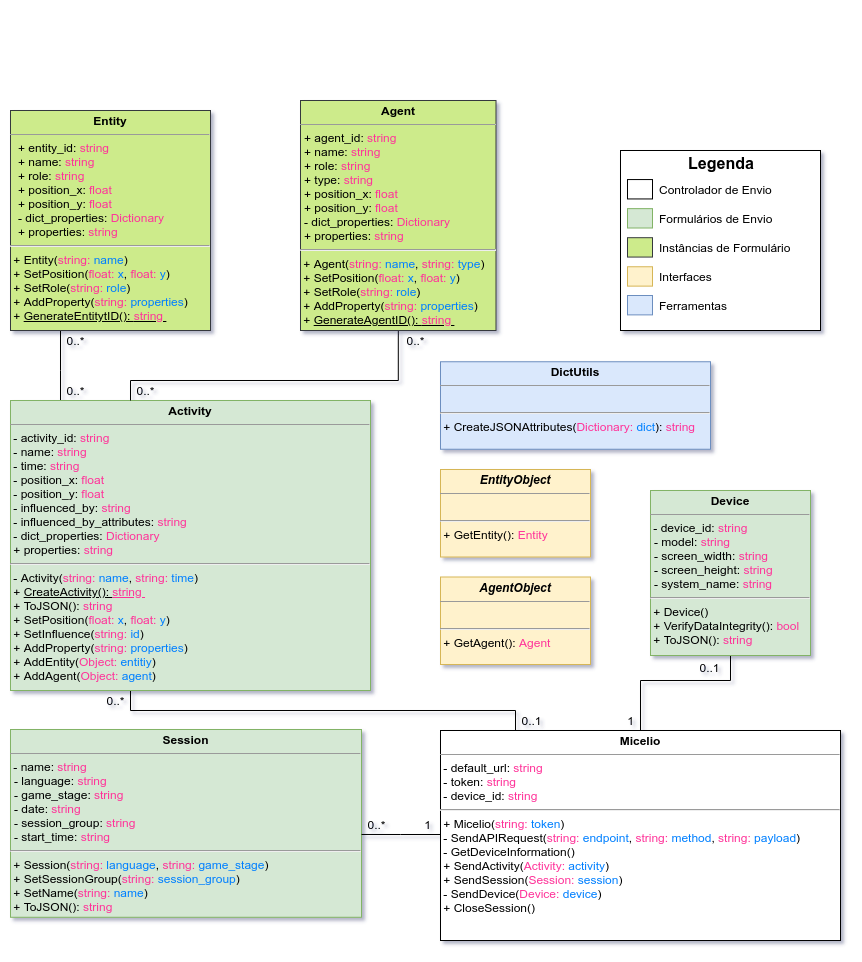
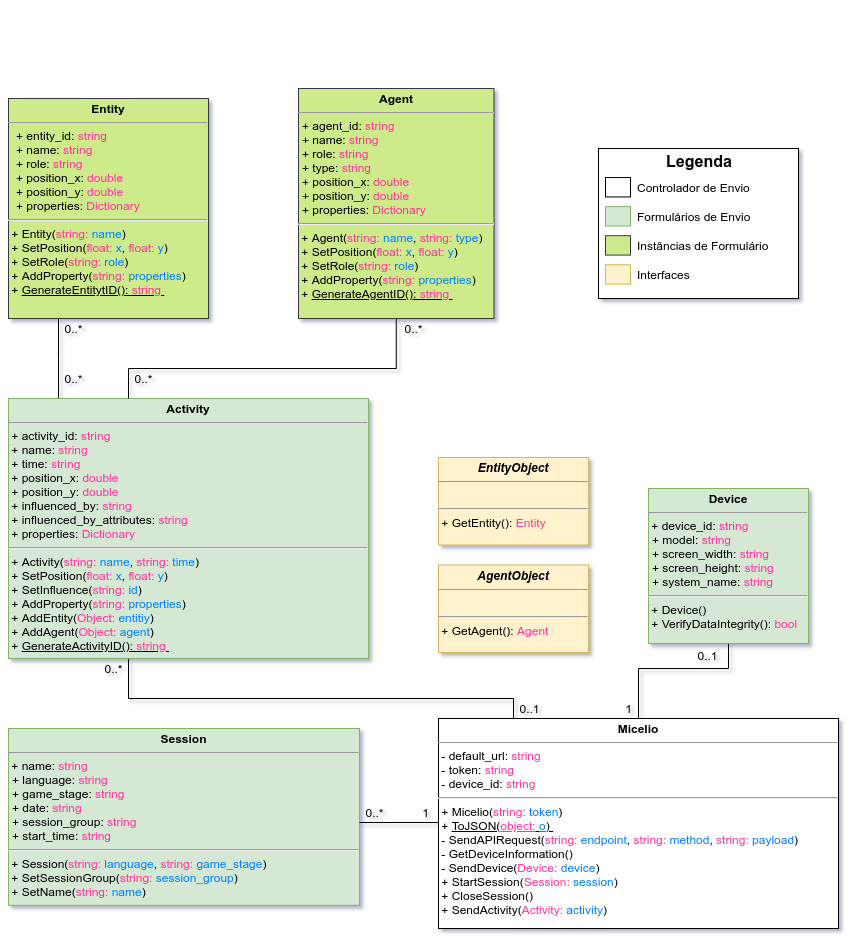
Documentation

Changed region(s): [[0.0, 0.396, 0.9954, 1.0], [0.3318, 0.0914, 0.9652, 0.7006], [0.0, 0.0914, 0.2715, 0.3655]]

diff --git a/MicelioUnity/Assets/Provenance/Micelio.cs b/MicelioUnity/Assets/Provenance/Micelio.cs
@@ -29,7 +29,7 @@ public class Micelio
 
     }
 
-    public static string toJSON(object o)
+    public static string ToJSON(object o)
     {
         string json = LitJson.JsonMapper.ToJson(o);
         Debug.Log(json);
@@ -81,14 +81,14 @@ public class Micelio
     //envia as informações de device para o banco
     private void SendDevice(Device device)
     {
-        string payload = toJSON(device);
+        string payload = ToJSON(device);
         SendAPIRequest("/device", "POST", payload);
     }
 
     // envia as informações de seção para o banco
     public void StartSession(Session session)
     {
-        string payload = toJSON(session);
+        string payload = ToJSON(session);
         SendAPIRequest("/session", "POST", payload);
     }
 

diff --git a/README.md b/README.md
@@ -1,8 +1,10 @@
 # Micélio - Plataforma de Proveniencia para Avaliação do Aprendizado em Jogos Educacionais 
 
-O Micélio é uma plataforma de proveniência criada com o objetivo de armazenar dados de log de qualquer jogo, e a partir deles gerar grafos de proveniência. O principal objetivo da plataforma é, através dos grafos de proveniência gerados, conseguir avaliar o aprendizado em jogos educacionais. Por ter como objetivo abranger qualquer tipos de jogo, tornou-se necessário criar um modelo de dados geral que pudesse armazenar as informações de qualquer um deles.
+O Micélio é uma plataforma de proveniência criada com o objetivo de recolher e armazenar dados de log de qualquer jogo, e a partir deles gerar visualizações dos dados de proveniência. O principal objetivo da plataforma é, através dos dados de proveniência, conseguir avaliar o aprendizado em jogos educacionais.
 
-O modelo de dados foi criado baseando-se no modelo de proveniência PROV. O PROV utliza 3 termos para definir os vértices de um grafo de proveniência, são eles: <u>entidade</u>, <u>atividade</u> e <u>agente</u>.
+Por ter como objetivo abranger qualquer tipos de jogo, tornou-se necessário criar um modelo de dados geral que pudesse armazenar informações de forma genérica.
+
+O modelo de dados foi criado baseando-se no modelo de proveniência PROV. O PROV analisa os dados de proveniência através de um grafo, esse grafo utliza 3 termos para definir seus vértices, são eles: <u>entidade</u>, <u>atividade</u> e <u>agente</u>.
 
 - **Entidades**
 
@@ -30,11 +32,15 @@ A plataforma do Micélio conta com alguns módulos, são eles:
 
   [Saiba mais](https://github.com/GPMM/micelio/tree/main/UnityAPI).
 
+- MicélioDashboard:
+
+  [Saiba mais](https://github.com/GPMM/micelio/tree/main/MicelioDashboard).
+
   
 
 ## Modelo de Dados
 
-O modelo de dados do Micélio foi pensado para que pudesse armazenar dados qualquer jogo. Além disso, as principais entidades foram basedas no modelo PROV, com o objetivo de conseguirmos montar grafos de proveniência para os dados armazenados. A **Imagem 1** representa o diagrama de classes do modelo de dados utilizado pelo Micélio.
+O modelo de dados do Micélio foi pensado para que pudesse armazenar dados qualquer jogo. Além disso, as principais entidades foram basedas no modelo PROV, com o objetivo de conseguirmos montar grafos de proveniência e outras formas de visualização para os dados armazenados. A **Imagem 1** representa o diagrama de classes do modelo de dados utilizado pelo Micélio.
 
 
 
@@ -42,7 +48,7 @@ O modelo de dados do Micélio foi pensado para que pudesse armazenar dados qualq
 
 <center><b>Imagem 1</b> - Diagrama de Classes utilizado pelo Micélio para armazenamento dos dados.</center>
 
-O modelo de dados foi definido com 3 tipos de entidades, Objetos do Jogo, Objetos de Proveniênica e Objetos do sistema. Objetos do Jogo são objetos derivados de Objetos de proveniênicia, ou informações associativas. Essas informações não são de extrema importância para montar os grafos, são informações opcionais que ajudam a detalhar mais as informações de cada objeto. Os Objetos de Proveniência são os objetos que guardam as informações essenciais para montarmos os grafos de proveniência seguindo o modelo base (PROV). Já os Objetos do Sistema são objetos que nos ajuda a diferencias as informações enviadas, com eles podemos saber de que jogo, em qual dispotiviso e em qual sessão a informação foi gerada, e além disso, se o usuário ainda está logado naquela sessão.
+O modelo de dados foi definido com 3 tipos de entidades, Objetos do Jogo, Objetos de Proveniênica e Objetos do sistema. Objetos do Jogo são objetos derivados de Objetos de proveniênicia, ou informações associativas. Essas informações não são de extrema importância para montar os grafos, são informações opcionais que ajudam a detalhar mais as informações de cada objeto. Os Objetos de Proveniência são os objetos que guardam as informações essenciais para montarmos os grafos de proveniência seguindo o modelo base (PROV). Já os Objetos do Sistema são objetos que nos ajudam a diferenciar as informações enviadas, com eles podemos saber de que jogo, em qual dispotiviso e em qual sessão a informação foi gerada, e além disso, se o usuário ainda está logado naquela sessão.
 
 O Micélio foi projetado com o objetivo de ser uma via de mão única com os jogos, ou seja, a API Web recebe as informações mas não devolve nenhum dado. Isso foi pensado para que o jogo não dependa de uma resposta da API para seguir na sua história, tornando ele completamente independente da API Web. A **Imagem 2** mostra como é feita a comunicação entre cada parte que interage com o sistema.
 
@@ -56,7 +62,7 @@ O Micélio foi projetado com o objetivo de ser uma via de mão única com os jog
 
 Uma vez que um jogo é cadastrado ele recebe uma chave de acesso a API (token). Essa chave irá permitir que os jogos mandem requisições para o Micélio, e que ele possa identificar a qual jogo aquela requisição pertence. O token gerado é um JWT com informações referentes aos jogos.
 
-Uma vez que um jogo é instalado em um dispositivo e é iniciado ele precisa enviar uma requisição de cadastro do dispositivo, nessa requisição é muito importante passar um identificador único do dispositivo, como o enderaço MAC. Essa informação nos permite identificar, para qualquer requisição de cadastro de atividade, a qual sessão ela está relacionada. Como cada dispositivo só possui uma sessão simultânea em cada jogo, basta pegarmos a última sessão aberta por aquele dispositivo naquele jogo.
+Uma vez que um jogo é instalado em um dispositivo, e é iniciado, ele precisa enviar uma requisição de cadastro do dispositivo, nessa requisição é muito importante passar um identificador único do dispositivo, como o enderaço MAC ou qualquer identificador disponibilizado pelo sistema. Essa informação nos permite identificar, para qualquer requisição de cadastro de atividade, a qual sessão ela está relacionada. Como cada dispositivo só possui uma sessão simultânea em cada jogo, basta pegarmos a última sessão aberta por aquele dispositivo naquele jogo.
 
 
 

diff --git a/MicelioUnity/README.md b/MicelioUnity/README.md
@@ -84,7 +84,7 @@ public class Arma : MonoBehaviour, EntityObject
 {
     private string id_entity = Entity.GenerateEntityID();
     public string nome = "Arma";
-    public float peso;
+    public double peso;
     public int poder ;
 
     public Soldado(int poder, float peso)
@@ -153,8 +153,8 @@ public class Soldado : MonoBehaviour, AgentObject
     private string id_agent = Agent.GenerateAgentID();
     public string nome = "Soldado";
     public string type = "player";
-    public float posx;
-    public float posy;
+    public double posx;
+    public double posy;
     public string patente;
     public int municao;
     public double hp;
